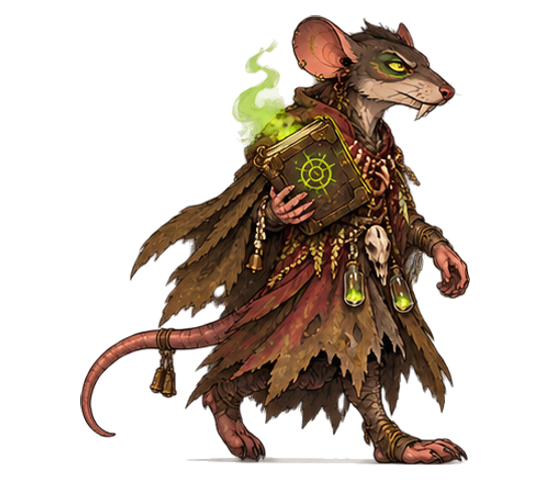
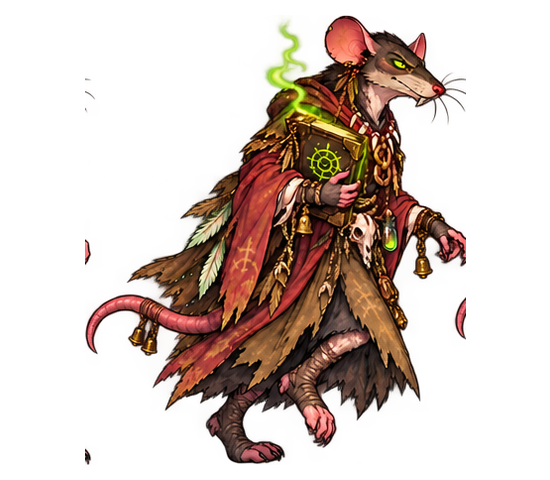
Replace shaman walk with generated alternating-foot poses and aligned transparent frames

diff --git a/chapter-preview.html b/chapter-preview.html
@@ -1,7 +1,7 @@
 <!doctype html>
-<html lang="es"><head><meta charset="utf-8"><meta name="viewport" content="width=device-width,initial-scale=1,viewport-fit=cover"><meta name="apple-mobile-web-app-capable" content="yes"><meta name="apple-mobile-web-app-status-bar-style" content="black-translucent"><meta name="apple-mobile-web-app-title" content="Crazy Cats"><link rel="manifest" href="manifest.webmanifest"><link rel="apple-touch-icon" href="assets/calico.png"><meta name="theme-color" content="#141c19"><title>Crazy Cats · Convoy</title><link rel="stylesheet" href="style.css?v=20261013ritual4"></head>
+<html lang="es"><head><meta charset="utf-8"><meta name="viewport" content="width=device-width,initial-scale=1,viewport-fit=cover"><meta name="apple-mobile-web-app-capable" content="yes"><meta name="apple-mobile-web-app-status-bar-style" content="black-translucent"><meta name="apple-mobile-web-app-title" content="Crazy Cats"><link rel="manifest" href="manifest.webmanifest"><link rel="apple-touch-icon" href="assets/calico.png"><meta name="theme-color" content="#141c19"><title>Crazy Cats · Convoy</title><link rel="stylesheet" href="style.css?v=20261013walk5"></head>
 <body><div id="rotate-cover" class="rotate-cover" hidden aria-hidden="true"><div><div class="rotate-icon">▯ ↻</div><p class="eyebrow">CRAZY CATS · CONVOY</p><h2>Gira tu celular</h2><p>Esta expedición se juega en horizontal.<br>Gira el teléfono para ver el convoy completo.</p><button id="rotate-action" class="primary">ABRIR EN HORIZONTAL ↗</button><small>Si no gira automáticamente, desactiva el bloqueo de rotación y gira tu celular.</small></div></div><header><a class="brand" href="./">CRAZY CATS <span>CONVOY</span></a><div class="header-right"><span class="tag">EXPEDICIÓN 01</span><button id="sound" aria-label="Activar sonido">Sonido: OFF</button><details class="audio-settings"><summary>Mezcla ♫</summary><div><label class="channel"><input id="enable-fx" type="checkbox" checked> Efectos de ataque</label><label class="channel"><input id="enable-music" type="checkbox" checked> Música</label><label class="channel"><input id="enable-rats" type="checkbox" checked> Voces y efectos de ratas</label><button id="audio-test" type="button">Probar sonido ♫</button><p id="audio-test-result" aria-live="polite"></p><label>Efectos <input id="fx-volume" type="range" min="0" max="100" value="65"></label><label>Música <input id="music-volume" type="range" min="0" max="100" value="75"></label></div></details></div></header>
 <main><section class="topline"><div><p class="eyebrow">LA ÚLTIMA CARAVANA FELINA</p><h1>Unidos contra la horda.</h1></div><div class="wallet"><small>CHATARRA DISPONIBLE</small><strong>◈ <span id="coins">0</span></strong></div></section>
 <div class="battle-layout"><section class="arena"><div class="hud"><div><span id="zone">01 / El desguace</span><strong id="wave">Listos para salir</strong></div><div class="health"><label>INTEGRIDAD <b id="hptext">100%</b></label><div><i id="hpbar"></i></div></div><button id="pause" disabled>Ⅱ Pausa</button></div><canvas id="game" aria-label="Campo de batalla del convoy"></canvas><div id="overlay" class="overlay"><div class="intro"><p class="eyebrow">GATOS ARRIBA. GARRAS LISTAS.</p><h2 id="otitle">Tu convoy.<br>Su peor pesadilla.</h2><p id="odesc">Engancha vehículos, mejora tu equipo y abre camino entre las ratas zombie.</p><button id="start" class="primary">INICIAR EXPEDICIÓN ↗</button><small id="hint">Ataque automático · Tú decides las mejoras y habilidades</small></div></div><section id="forest-briefing" class="forest-briefing" hidden role="dialog" aria-modal="true" aria-label="Instrucciones del Explorador"><canvas id="adventurer-portrait" width="362" height="543" aria-label="Gato aventurero hablando"></canvas><div class="brief-dialogue"><p id="brief-speaker" class="eyebrow">EXPLORADOR · CAPÍTULO 2</p><p id="brief-text"></p><div class="brief-actions"><span id="brief-page"></span><button id="brief-next" class="primary">CONTINUAR ↗</button></div></div></section><section id="ritual-panel" class="ritual-panel" hidden role="dialog" aria-modal="true" aria-label="Advertencia del Guardián de los Sellos"><canvas id="ritual-art" width="900" height="650" aria-label="Libro antiguo abriéndose"></canvas><div class="ritual-dialogue"><p id="ritual-label" class="eyebrow">EL LIBRO DE LOS SELLOS</p><p id="ritual-text" aria-live="polite"></p><button id="ritual-next" class="primary" hidden>CONTINUAR ↗</button></div></section><div id="zone-transition" class="zone-transition" aria-hidden="true"><section id="story-panel" class="story-panel" hidden aria-label="Diálogo del científico"><div id="scientist" class="scientist" role="img" aria-label="Científico felino hablando"></div><div class="story-dialogue"><p class="eyebrow">ARCHIVO LÁZARO · INFORME DEL CIENTÍFICO</p><p id="story-text"></p><div class="story-actions"><span id="story-page"></span><button id="story-next" class="primary">CONTINUAR ↗</button></div></div></section><div id="zone-card"><p id="zone-title">ZONA 2</p><h2 id="zone-name">Autopista abandonada</h2><span>CRAZY CATS · CONVOY</span></div></div><div class="arena-footer"><span id="status">PREPARA TU CONVOY</span><span id="kills">0 ratas derrotadas</span></div></section>
 <section class="controls"><div class="shop"><div class="section-title"><span>01 — TALLER DEL CONVOY</span><small>Mejoras permanentes en esta expedición</small></div><div class="cards"><button id="add"><span class="icon">🔗</span><span><b>Enganchar vehículo</b><small id="addcost">◈ 100 · Artillero</small></span></button><button id="damage"><span class="icon">⌖</span><span><b>Mejorar armas</b><small id="damagecost">◈ 60 · Daño +25%</small></span></button><button id="repair"><span class="icon">✚</span><span><b>Reparar convoy</b><small>◈ 45 · Integridad +40%</small></span></button></div></div><div class="abilities"><div class="section-title"><span>02 — HABILIDAD</span><small>Tecla ESPACIO</small></div><button id="blast" class="ability" disabled><span class="icon blast-icon">ϟ</span><b>⚡ Descarga felina</b><small id="cooldown">Daña y frena a toda la horda</small></button></div></section></div>
-<footer><span>CRAZY CATS / ZOMBIE CONVOY</span><span>Toca para mejorar · Espacio: descarga · P: pausa</span><button id="reset">Nueva expedición</button></footer></main><script src="audio.js?v=20261013ritual4"></script><script src="game.js?v=20261013ritual4"></script><script src="mobile.js?v=20261013ritual4"></script><script>assetsReady.then(()=>{forestBriefed=false;cars=4;weapon=8;coins=350;maxhp=580;hp=580;level=5;state='ready';show('Vista previa<br>Capítulo 2','Conoce el informe Lázaro y prueba el lanzallamas del Explorador en el Bosque denso. Esta prueba guarda por separado.','VER DIÁLOGO ↗');const resumeStart=$('start').onclick;$('start').onclick=()=>{$('start').onclick=resumeStart;activateGameAudio(true);window.ConvoyMobile?.requestLandscape();if(new URLSearchParams(location.search).get("scene")==="shaman"){level=9;startShaman();}else if(new URLSearchParams(location.search).get("scene")==="mission"){level=8;startMilitaryBriefing();}else if(new URLSearchParams(location.search).get("scene")==="epilogue"){level=7;forestBriefed=true;beginEpilogueTransition();}else if(new URLSearchParams(location.search).get("scene")==="night"){level=7;forestBriefed=true;wave=0;beginWave();}else if(new URLSearchParams(location.search).get("scene")==="nightboss"){level=7;forestBriefed=true;wave=6;startOgreBattle();}else if(new URLSearchParams(location.search).get("scene")==="ogre"){level=6;forestBriefed=true;startOgreShow();}else startStory();};if(new URLSearchParams(location.search).get("scene")==="ogre")show("La rata mutada<br>del bosque.","Presentación del jefe: repara el convoy después de la sierra y durante el ácido. Esta prueba guarda por separado.","VER APARICIÓN ↗");if(["night","nightboss"].includes(new URLSearchParams(location.search).get("scene")))show("Bosque nocturno.","Seis oleadas. En la última enfrentarás a la rata mutada. Esta prueba guarda por separado.","ENTRAR AL BOSQUE ↗");if(new URLSearchParams(location.search).get("scene")==="epilogue")show("Después del<br>jefe de la sierra.","Transición al Pantano al amanecer y diálogo del Explorador. Esta prueba guarda por separado.","VER NUEVA ESCENA ↗");if(["shaman","mission"].includes(new URLSearchParams(location.search).get("scene")))show("Pantano de<br>los Sellos.","La orden militar y la aparición del Guardián. Esta prueba guarda por separado.","VER LOS SELLOS ↗");updateUI();});</script></body></html>
+<footer><span>CRAZY CATS / ZOMBIE CONVOY</span><span>Toca para mejorar · Espacio: descarga · P: pausa</span><button id="reset">Nueva expedición</button></footer></main><script src="audio.js?v=20261013walk5"></script><script src="game.js?v=20261013walk5"></script><script src="mobile.js?v=20261013walk5"></script><script>assetsReady.then(()=>{forestBriefed=false;cars=4;weapon=8;coins=350;maxhp=580;hp=580;level=5;state='ready';show('Vista previa<br>Capítulo 2','Conoce el informe Lázaro y prueba el lanzallamas del Explorador en el Bosque denso. Esta prueba guarda por separado.','VER DIÁLOGO ↗');const resumeStart=$('start').onclick;$('start').onclick=()=>{$('start').onclick=resumeStart;activateGameAudio(true);window.ConvoyMobile?.requestLandscape();if(new URLSearchParams(location.search).get("scene")==="shaman"){level=9;startShaman();}else if(new URLSearchParams(location.search).get("scene")==="mission"){level=8;startMilitaryBriefing();}else if(new URLSearchParams(location.search).get("scene")==="epilogue"){level=7;forestBriefed=true;beginEpilogueTransition();}else if(new URLSearchParams(location.search).get("scene")==="night"){level=7;forestBriefed=true;wave=0;beginWave();}else if(new URLSearchParams(location.search).get("scene")==="nightboss"){level=7;forestBriefed=true;wave=6;startOgreBattle();}else if(new URLSearchParams(location.search).get("scene")==="ogre"){level=6;forestBriefed=true;startOgreShow();}else startStory();};if(new URLSearchParams(location.search).get("scene")==="ogre")show("La rata mutada<br>del bosque.","Presentación del jefe: repara el convoy después de la sierra y durante el ácido. Esta prueba guarda por separado.","VER APARICIÓN ↗");if(["night","nightboss"].includes(new URLSearchParams(location.search).get("scene")))show("Bosque nocturno.","Seis oleadas. En la última enfrentarás a la rata mutada. Esta prueba guarda por separado.","ENTRAR AL BOSQUE ↗");if(new URLSearchParams(location.search).get("scene")==="epilogue")show("Después del<br>jefe de la sierra.","Transición al Pantano al amanecer y diálogo del Explorador. Esta prueba guarda por separado.","VER NUEVA ESCENA ↗");if(["shaman","mission"].includes(new URLSearchParams(location.search).get("scene")))show("Pantano de<br>los Sellos.","La orden militar y la aparición del Guardián. Esta prueba guarda por separado.","VER LOS SELLOS ↗");updateUI();});</script></body></html>

diff --git a/game.js b/game.js
@@ -25,7 +25,7 @@ $('brief-next').onclick=()=>{window.ConvoyAudio?.recover();if(state!=='briefing'
 let shaman=null;
 function startShaman(){state='shaman';convoyOffset=0;shaman={phase:'retreat',clock:0,x:1230};acidTicks=0;ogre=null;enemies=[];shots=[];hostileShots=[];particles=[];$('overlay').classList.add('hidden');$('ritual-panel').hidden=true;window.ConvoyAudio?.prepareRitual?.();updateUI();}
 function stepShaman(dt){if(document.hidden)return;shaman.clock+=dt;if(shaman.phase==='retreat'){const t=Math.min(1,shaman.clock/1.2);convoyOffset=-200*(t*t*(3-2*t));if(t===1){shaman.phase='walk';shaman.clock=0;window.ConvoyAudio?.ritual?.('laughter',4);}}else if(shaman.phase==='walk'){shaman.x=1230-360*Math.min(1,shaman.clock/4);if(shaman.clock>=4){shaman.phase='raise';shaman.clock=0;window.ConvoyAudio?.ritual?.('chant',10.4);}}else if(shaman.phase==='raise'){if(shaman.clock>=2.4){shaman.phase='book';shaman.clock=0;$('ritual-panel').hidden=false;renderRitual();}}else if(shaman.phase==='book'){renderRitual();if(shaman.clock>=8){shaman.phase='warning';shaman.clock=0;$('ritual-label').textContent='GUARDIÁN DE LOS SELLOS';$('ritual-text').textContent='Han cruzado los límites del pantano. Los símbolos que ven no son simples marcas… son sellos. Si buscan el artefacto, escuchen bien: no todo lo que duerme entre estas ruinas debe despertar.';$('ritual-next').hidden=false;}}}
-function drawShaman(){if(state!=='shaman'||!shaman||shaman.phase==='retreat')return;const walking=shaman.phase==='walk',n=walking?Math.floor(shaman.clock*10)%8:shaman.phase==='raise'?Math.min(7,Math.floor(shaman.clock/2.4*8)):7,img=art['shaman-'+(walking?'walk':'lift')+'-'+(n+1)];if(!img)return;const h=walking?245:[247,246,243,243,260,250,280,276][n],w=h*img.width/img.height;ctx.save();ctx.translate(shaman.x,435);ctx.scale(-1,1);ctx.drawImage(img,-w/2,-h*(walking?465/480:.95),w,h);ctx.restore();}
+function drawShaman(){if(state!=='shaman'||!shaman||shaman.phase==='retreat')return;const walking=shaman.phase==='walk',n=walking?Math.floor(shaman.clock*8)%8:shaman.phase==='raise'?Math.min(7,Math.floor(shaman.clock/2.4*8)):7,img=art['shaman-'+(walking?'walk':'lift')+'-'+(n+1)];if(!img)return;const h=walking?245:[247,246,243,243,260,250,280,276][n],w=h*img.width/img.height;ctx.save();ctx.translate(shaman.x,435);ctx.scale(-1,1);ctx.drawImage(img,-w/2,-h*(walking?465/480:.95),w,h);ctx.restore();}
 function ritualPose(clock,raising){if(raising){const p=Math.min(7,clock/2.4*7);return {a:Math.floor(p)+1,b:Math.min(8,Math.floor(p)+2),mix:p%1};}if(clock<1.4){const p=clock/1.4*4;return {a:Math.floor(p)+1,b:Math.min(5,Math.floor(p)+2),mix:p%1};}if(clock<7.5){const p=(clock-1.4)*5,n=Math.floor(p)%2;return {a:4+n,b:5-n,mix:p%1};}const p=Math.min(1,(clock-7.5)/.5);return {a:5,b:6,mix:p};}
 function renderRitual(){const g=$('ritual-art').getContext('2d'),c=$('ritual-art'),raising=false,pose=ritualPose(shaman.clock,false);g.clearRect(0,0,c.width,c.height);g.globalCompositeOperation='lighter';for(const [n,alpha] of [[pose.a,1-pose.mix],[pose.b,pose.mix]]){const img=art['shaman-'+(raising?'lift':'book')+'-'+n];if(!img||alpha<=0)continue;const scale=Math.min(c.width/img.width,c.height/img.height);g.globalAlpha=alpha;g.drawImage(img,(c.width-img.width*scale)/2,(c.height-img.height*scale)/2,img.width*scale,img.height*scale);}g.globalAlpha=1;g.globalCompositeOperation='source-over';$('ritual-label').textContent=raising?'GUARDIÁN DE LOS SELLOS · EL RITUAL':'EL LIBRO DE LOS SELLOS';$('ritual-text').textContent='';$('ritual-next').hidden=true;}
 $('ritual-next').onclick=()=>{if(state!=='shaman'||shaman?.phase!=='warning')return;$('ritual-panel').hidden=true;window.ConvoyAudio?.stopRitual?.();shaman=null;state='won';show('Los sellos<br>han despertado.','El convoy ha recibido la advertencia del Guardián. La búsqueda del artefacto continuará en la próxima etapa.','NUEVA EXPEDICIÓN ↗');updateUI();};
@@ -36,7 +36,7 @@ const art={};
 function removeGrayMatte(frame){const g=frame.getContext('2d',{willReadFrequently:true}),im=g.getImageData(0,0,frame.width,frame.height),d=im.data,w=frame.width,h=frame.height;const neutral=p=>{const i=p*4,hi=Math.max(d[i],d[i+1],d[i+2]),lo=Math.min(d[i],d[i+1],d[i+2]);return hi-lo<24&&lo>78&&hi<245;};const seen=new Uint8Array(w*h),q=new Int32Array(w*h);let head=0,tail=0;function add(p){if(p>=0&&p<w*h&&!seen[p]&&(d[p*4+3]<25||neutral(p))){seen[p]=1;q[tail++]=p;}}for(let x=0;x<w;x++){add(x);add((h-1)*w+x);}for(let y=0;y<h;y++){add(y*w);add(y*w+w-1);}while(head<tail){const p=q[head++];d[p*4+3]=0;if(p%w>0)add(p-1);if(p%w<w-1)add(p+1);add(p-w);add(p+w);}for(let p=0;p<w*h;p++){if(!d[p*4+3]||!neutral(p))continue;let clear=0;for(const v of [p-1,p+1,p-w,p+w])if(v>=0&&v<w*h&&d[v*4+3]===0)clear++;if(clear>=2)d[p*4+3]=0;}g.putImageData(im,0,0);}
 function cleanCharacter(frame){const g=frame.getContext('2d',{willReadFrequently:true}),im=g.getImageData(0,0,frame.width,frame.height),d=im.data,w=frame.width,count=w*frame.height,seen=new Uint8Array(count),queue=new Int32Array(count);let largest=[];for(let p=0;p<count;p++){if(seen[p]||d[p*4+3]<25)continue;let head=0,tail=1;queue[0]=p;seen[p]=1;while(head<tail){const q=queue[head++];for(const v of [q%w>0?q-1:-1,q%w<w-1?q+1:-1,q-w,q+w])if(v>=0&&v<count&&!seen[v]&&d[v*4+3]>=25){seen[v]=1;queue[tail++]=v;}}if(tail>largest.length)largest=Array.from(queue.subarray(0,tail));}const keep=new Uint8Array(count);for(const p of largest)keep[p]=1;for(let p=0;p<count;p++)if(!keep[p])d[p*4+3]=0;g.putImageData(im,0,0);}
 async function loadSprite(key,file,crop){return new Promise(resolve=>{const img=new Image();img.onload=()=>{const off=document.createElement('canvas');const r=crop||[0,0,img.width,img.height];const scale=Math.min(1,760/r[2]);off.width=Math.round(r[2]*scale);off.height=Math.round(r[3]*scale);const g=off.getContext('2d',{willReadFrequently:true});g.drawImage(img,...r,0,0,off.width,off.height);const im=g.getImageData(0,0,off.width,off.height),d=im.data,w=off.width,h=off.height,visited=new Uint8Array(w*h),queue=new Int32Array(w*h);let head=0,tail=0;const bg=(p)=>{const i=p*4;return (['rat','brute','mech'].includes(key)||key.startsWith('walk'))?Math.max(d[i],d[i+1],d[i+2])-Math.min(d[i],d[i+1],d[i+2])<20&&d[i]>85&&d[i]<250:d[i]>225&&d[i+1]>225&&d[i+2]>225;};function add(p){if(p>=0&&p<w*h&&!visited[p]&&bg(p)){visited[p]=1;queue[tail++]=p;}}for(let x=0;x<w;x++){add(x);add((h-1)*w+x);}for(let y=0;y<h;y++){add(y*w);add(y*w+w-1);}while(head<tail){const p=queue[head++];d[p*4+3]=0;if(p%w>0)add(p-1);if(p%w<w-1)add(p+1);add(p-w);add(p+w);}g.putImageData(im,0,0);if(key.startsWith('walkOgre')||key.startsWith('walkArmor')||key==='walkAcidBottle'){removeGrayMatte(off);cleanCharacter(off);}art[key]=off;if(key==='hero'||key==='wagon'||key==='tail')separateWheels(key);resolve();};img.onerror=()=>resolve();img.src=file;});}
-function loadScene(key,file){return new Promise(resolve=>{const img=new Image();img.onload=()=>{art[key]=img;resolve();};img.onerror=resolve;img.src=file.startsWith('assets/')?file+'?v=20261013ritual4':file;});}
+function loadScene(key,file){return new Promise(resolve=>{const img=new Image();img.onload=()=>{art[key]=img;resolve();};img.onerror=resolve;img.src=file.startsWith('assets/')?file+'?v=20261013walk5':file;});}
 const crawlFrames=[];
 function loadCrawler(){return new Promise(resolve=>{const image=new Image();image.onload=()=>{const columns=[[0,.265],[.257,.27],[.512,.245],[.742,.258]];
 for(let n=0;n<8;n++){const [left,width]=columns[n%4],top=n<4?.105:.615,bottom=n<4?.435:.9;const frame=document.createElement('canvas');frame.width=Math.round(width*image.width);frame.height=Math.round((bottom-top)*image.height);const g=frame.getContext('2d',{willReadFrequently:true});g.drawImage(image,left*image.width,top*image.height,frame.width,frame.height,0,0,frame.width,frame.height);

diff --git a/index.html b/index.html
@@ -1,7 +1,7 @@
 <!doctype html>
-<html lang="es"><head><meta charset="utf-8"><meta name="viewport" content="width=device-width,initial-scale=1,viewport-fit=cover"><meta name="apple-mobile-web-app-capable" content="yes"><meta name="apple-mobile-web-app-status-bar-style" content="black-translucent"><meta name="apple-mobile-web-app-title" content="Crazy Cats"><link rel="manifest" href="manifest.webmanifest"><link rel="apple-touch-icon" href="assets/calico.png"><meta name="theme-color" content="#141c19"><title>Crazy Cats · Convoy</title><link rel="stylesheet" href="style.css?v=20261013ritual4"></head>
+<html lang="es"><head><meta charset="utf-8"><meta name="viewport" content="width=device-width,initial-scale=1,viewport-fit=cover"><meta name="apple-mobile-web-app-capable" content="yes"><meta name="apple-mobile-web-app-status-bar-style" content="black-translucent"><meta name="apple-mobile-web-app-title" content="Crazy Cats"><link rel="manifest" href="manifest.webmanifest"><link rel="apple-touch-icon" href="assets/calico.png"><meta name="theme-color" content="#141c19"><title>Crazy Cats · Convoy</title><link rel="stylesheet" href="style.css?v=20261013walk5"></head>
 <body><div id="rotate-cover" class="rotate-cover" hidden aria-hidden="true"><div><div class="rotate-icon">▯ ↻</div><p class="eyebrow">CRAZY CATS · CONVOY</p><h2>Gira tu celular</h2><p>Esta expedición se juega en horizontal.<br>Gira el teléfono para ver el convoy completo.</p><button id="rotate-action" class="primary">ABRIR EN HORIZONTAL ↗</button><small>Si no gira automáticamente, desactiva el bloqueo de rotación y gira tu celular.</small></div></div><header><a class="brand" href="./">CRAZY CATS <span>CONVOY</span></a><div class="header-right"><span class="tag">EXPEDICIÓN 01</span><button id="sound" aria-label="Activar sonido">Sonido: OFF</button><details class="audio-settings"><summary>Mezcla ♫</summary><div><label class="channel"><input id="enable-fx" type="checkbox" checked> Efectos de ataque</label><label class="channel"><input id="enable-music" type="checkbox" checked> Música</label><label class="channel"><input id="enable-rats" type="checkbox" checked> Voces y efectos de ratas</label><button id="audio-test" type="button">Probar sonido ♫</button><p id="audio-test-result" aria-live="polite"></p><label>Efectos <input id="fx-volume" type="range" min="0" max="100" value="65"></label><label>Música <input id="music-volume" type="range" min="0" max="100" value="75"></label></div></details></div></header>
 <main><section class="topline"><div><p class="eyebrow">LA ÚLTIMA CARAVANA FELINA</p><h1>Unidos contra la horda.</h1></div><div class="wallet"><small>CHATARRA DISPONIBLE</small><strong>◈ <span id="coins">0</span></strong></div></section>
 <div class="battle-layout"><section class="arena"><div class="hud"><div><span id="zone">01 / El desguace</span><strong id="wave">Listos para salir</strong></div><div class="health"><label>INTEGRIDAD <b id="hptext">100%</b></label><div><i id="hpbar"></i></div></div><button id="pause" disabled>Ⅱ Pausa</button></div><canvas id="game" aria-label="Campo de batalla del convoy"></canvas><div id="overlay" class="overlay"><div class="intro"><p class="eyebrow">GATOS ARRIBA. GARRAS LISTAS.</p><h2 id="otitle">Tu convoy.<br>Su peor pesadilla.</h2><p id="odesc">Engancha vehículos, mejora tu equipo y abre camino entre las ratas zombie.</p><button id="start" class="primary">INICIAR EXPEDICIÓN ↗</button><small id="hint">Ataque automático · Tú decides las mejoras y habilidades</small></div></div><section id="forest-briefing" class="forest-briefing" hidden role="dialog" aria-modal="true" aria-label="Instrucciones del Explorador"><canvas id="adventurer-portrait" width="362" height="543" aria-label="Gato aventurero hablando"></canvas><div class="brief-dialogue"><p id="brief-speaker" class="eyebrow">EXPLORADOR · CAPÍTULO 2</p><p id="brief-text"></p><div class="brief-actions"><span id="brief-page"></span><button id="brief-next" class="primary">CONTINUAR ↗</button></div></div></section><section id="ritual-panel" class="ritual-panel" hidden role="dialog" aria-modal="true" aria-label="Advertencia del Guardián de los Sellos"><canvas id="ritual-art" width="900" height="650" aria-label="Libro antiguo abriéndose"></canvas><div class="ritual-dialogue"><p id="ritual-label" class="eyebrow">EL LIBRO DE LOS SELLOS</p><p id="ritual-text" aria-live="polite"></p><button id="ritual-next" class="primary" hidden>CONTINUAR ↗</button></div></section><div id="zone-transition" class="zone-transition" aria-hidden="true"><section id="story-panel" class="story-panel" hidden aria-label="Diálogo del científico"><div id="scientist" class="scientist" role="img" aria-label="Científico felino hablando"></div><div class="story-dialogue"><p class="eyebrow">ARCHIVO LÁZARO · INFORME DEL CIENTÍFICO</p><p id="story-text"></p><div class="story-actions"><span id="story-page"></span><button id="story-next" class="primary">CONTINUAR ↗</button></div></div></section><div id="zone-card"><p id="zone-title">ZONA 2</p><h2 id="zone-name">Autopista abandonada</h2><span>CRAZY CATS · CONVOY</span></div></div><div class="arena-footer"><span id="status">PREPARA TU CONVOY</span><span id="kills">0 ratas derrotadas</span></div></section>
 <section class="controls"><div class="shop"><div class="section-title"><span>01 — TALLER DEL CONVOY</span><small>Mejoras permanentes en esta expedición</small></div><div class="cards"><button id="add"><span class="icon">🔗</span><span><b>Enganchar vehículo</b><small id="addcost">◈ 100 · Artillero</small></span></button><button id="damage"><span class="icon">⌖</span><span><b>Mejorar armas</b><small id="damagecost">◈ 60 · Daño +25%</small></span></button><button id="repair"><span class="icon">✚</span><span><b>Reparar convoy</b><small>◈ 45 · Integridad +40%</small></span></button></div></div><div class="abilities"><div class="section-title"><span>02 — HABILIDAD</span><small>Tecla ESPACIO</small></div><button id="blast" class="ability" disabled><span class="icon blast-icon">ϟ</span><b>⚡ Descarga felina</b><small id="cooldown">Daña y frena a toda la horda</small></button></div></section></div>
-<footer><span>CRAZY CATS / ZOMBIE CONVOY</span><span>Toca para mejorar · Espacio: descarga · P: pausa</span><button id="reset">Nueva expedición</button></footer></main><script src="audio.js?v=20261013ritual4"></script><script src="game.js?v=20261013ritual4"></script><script src="mobile.js?v=20261013ritual4"></script></body></html>
+<footer><span>CRAZY CATS / ZOMBIE CONVOY</span><span>Toca para mejorar · Espacio: descarga · P: pausa</span><button id="reset">Nueva expedición</button></footer></main><script src="audio.js?v=20261013walk5"></script><script src="game.js?v=20261013walk5"></script><script src="mobile.js?v=20261013walk5"></script></body></html>
